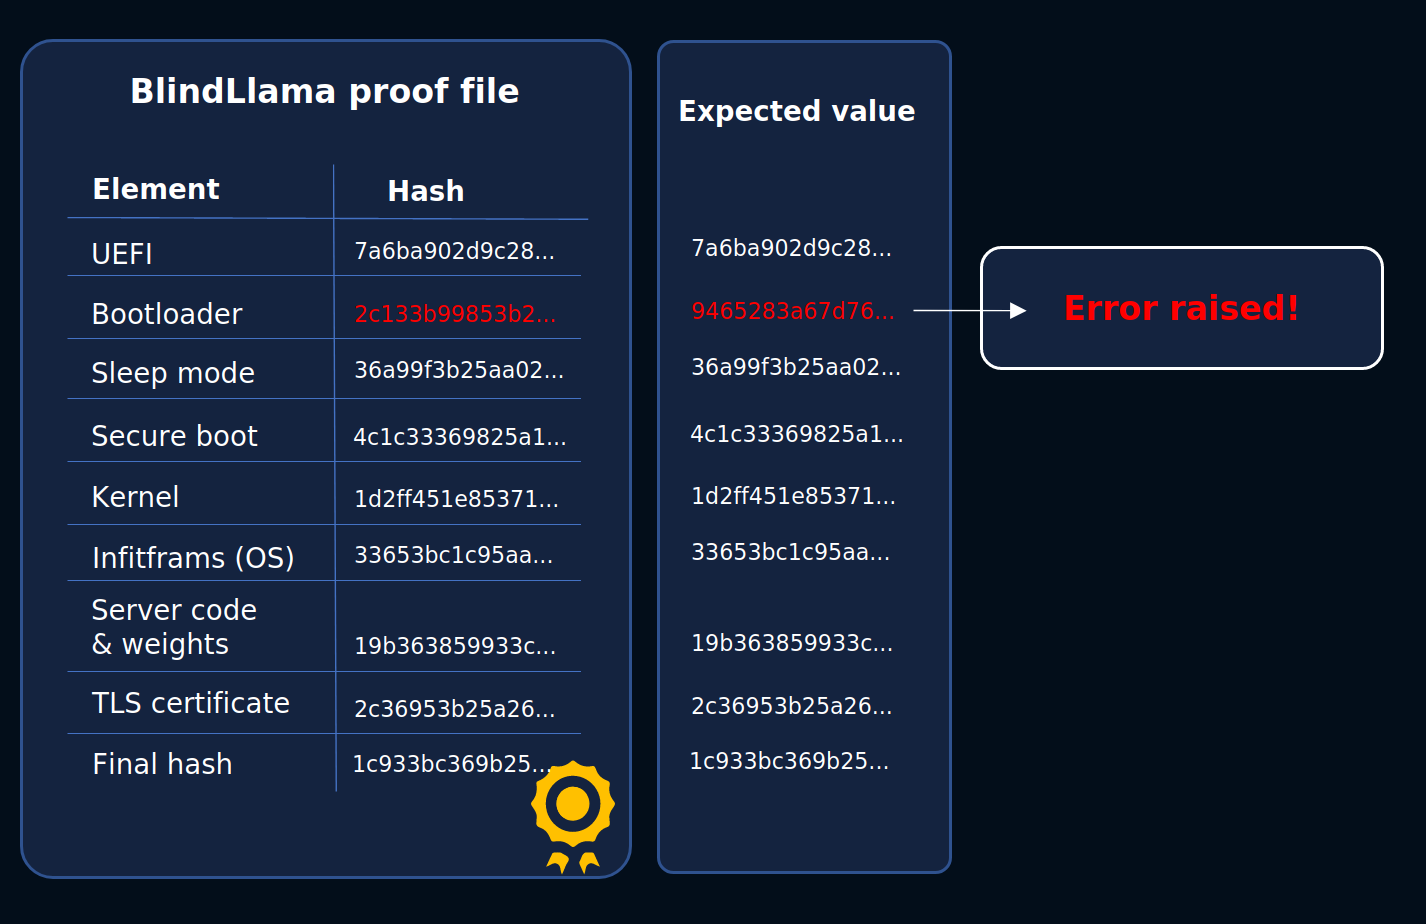
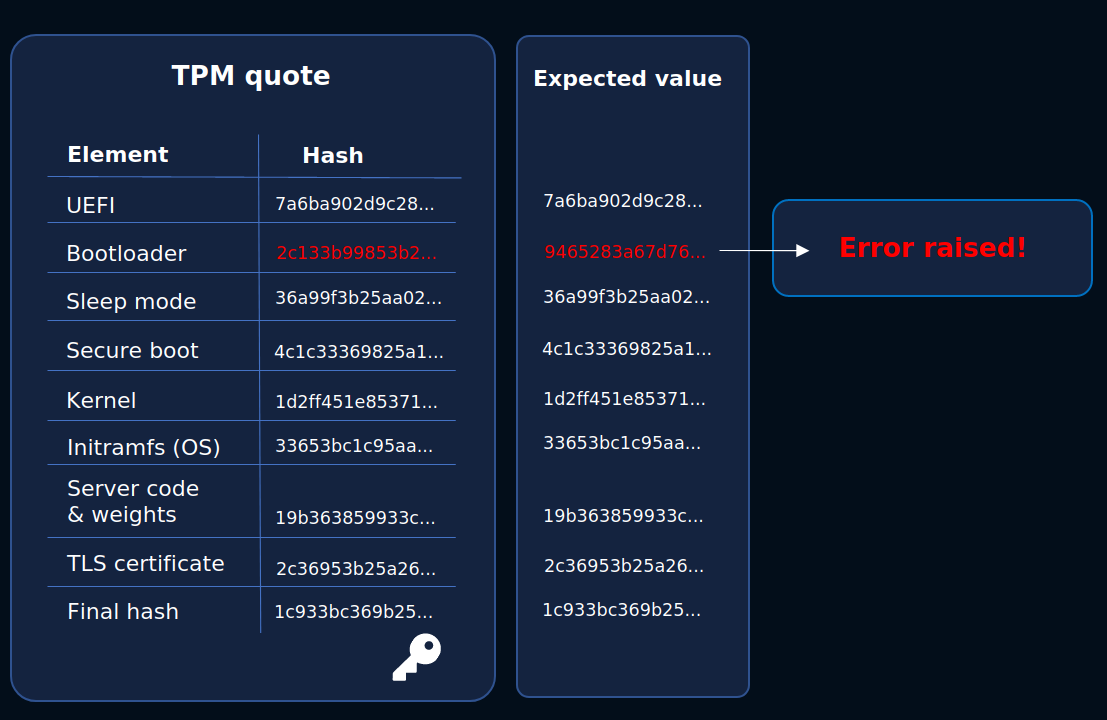
docs: update docs based on whitepaper improvements

diff --git a/docs/stylesheets/extra.css b/docs/stylesheets/extra.css
@@ -136,6 +136,8 @@
 @media screen and (min-width: 350px) {
 img[alt=PCR-alloc-dark] { max-width: 350px;}
 img[alt=PCR-alloc-light] { max-width: 350px;}
+img[alt=tpm-quote-dark] { max-width: 350px;}
+img[alt=tpm-quote-light] { max-width: 350px;}
 img[alt=PCR-alloc-extra-dark] { max-width: 350px;}
 img[alt=PCR-alloc-extra-light] { max-width: 350px;}
 }
@@ -146,6 +148,7 @@ img[alt=trust-model-dark] { max-width: 600px;}
 img[alt=tcb-light] { max-width: 600px;}
 img[alt=tcb-dark] { max-width: 600px}
 img[alt=proof-light] { max-width: 600px;}
+img[alt=proof-dark] { max-width: 600px;}
 img[alt=certificates-light] { max-width: 600px;}
 img[alt=certificates-dark] { max-width: 600px;}
 img[alt=matching-light] { max-width: 600px;}
@@ -153,7 +156,6 @@ img[alt=matching-dark] { max-width: 600px;}
 }
 
 @media screen and (min-width: 650px) {
-img[alt=proof-dark] { max-width: 650px;}
 img[alt=hash-check-light] { max-width: 650px;}
 img[alt=hash-check-dark] { max-width: 650px;}
 img[alt=arch-light] { max-width: 650px;}

diff --git a/docs/docs/concepts/TPMs.md b/docs/docs/concepts/TPMs.md
@@ -43,6 +43,9 @@ The BlindLlama server then additionally stores hashes of the following elements 
 
 The BlindLlama server then requests a signed quote from the TPM which contains these PCR values and is signed by the TPM's Attestation Key (AK). The AK never leaves the TPM and therefore cannot be accessed, even by our admins.
 
+![tpm-quote-dark](../../assets/tpm-quote-dark.png#only-dark)
+![tpm-quote-light](../../assets/tpm-quote-light.png#only-light)
+
 #### Creating proof file
 
 The BlindLlama server includes this TPM's quote in a cryptographic proof file, which also contains a certificate chain used to verify the TPM quote's signature and the server's TLS certificate.
@@ -50,9 +53,7 @@ The BlindLlama server includes this TPM's quote in a cryptographic proof file, w
 ![proof-dark](../../assets/proof-dark.png#only-dark)
 ![proof-light](../../assets/proof-light.png#only-light)
 
-### Client side
-
-#### Verifying the proof file
+### Client side: verifying the proof file
 
 When an end user queries our BlindLlama API, before a secure connection can be established with the server, the client will receive and verify the server's **cryptographic proof file**, which contains **the TPM's quote** signed by the private AK. 
 
@@ -60,35 +61,42 @@ The client also receives a [cert chain](https://www.ibm.com/docs/en/ztpf/1.1.0.1
 
 Verification is done in done in three steps:
 
-**Step one:** The client validates the AK using the certificate chain. This certificate chain is issued by the Cloud provider* and is evidence that the key really is the Attestation Key of one of their TPMs.
+#### 1. Verifying the Attestation Key
+
+The client validates the AK using the certificate chain. This certificate chain is issued by the Cloud provider and is evidence that the key really is the Attestation Key of one of their TPMs.
 
 ![chain-dark](../../assets/chain-dark.png#only-dark)
 ![chain-light](../../assets/chain-light.png#only-light)
 
-**Step two:** Now we have validated the AK, we use the public part of this key to check the TPM's quote's signature. This allows us to have confidence in the authenticity of the TPM quote contained within our proof file.
+!!! warning 
+    There is currently no signed endorsement from Azure for the TPM’s attestation key. We are currently working on resolving this issue. 
 
-**Step three:**  Once we have established that the TPM quote is authentic, the client recreates the quote's hash values and verifies that they match the values in quote. If any of these hashes do not match with the quote's corresponding hash, an error will be raised!
+#### 2. Verifying the TPM quote
+
+Now we have validated the AK, we use the public part of this key to check the TPM's quote's signature. This allows us to have confidence in the authenticity of the TPM quote contained within our proof file.
+
+#### 3. Verifying the hashed values
+
+Once we have established that the TPM quote is authentic, the client recreates the quote's hash values and verifies that they match the values in quote. If any of these hashes do not match with the quote's corresponding hash, an error will be raised!
 
 ![hash-check-dark](../../assets/hash-check-dark.png#only-dark)
 ![hash-check-light](../../assets/hash-check-light.png#only-light)
 
-* ⚠ Limitation: There is currently no signed endorsement from Azure regarding the TPM’s attestation key. We are currently working to resolve this issue. 
-
 ??? example "Understanding PCR measurements"
 
-  PCR values can either be fixed, and will never change, or changeable.
+    PCR values can either be fixed, and will never change, or changeable.
 
-  For fixed PCR values, every detail of what gets measured is known in advance. Therefore, it's possible to pre-compute the expected value. 
+    For fixed PCR values, every detail of what gets measured is known in advance. Therefore, it's possible to pre-compute the expected value. 
 
-  Such PCR registers typically measure components that don't change across boots, such as firmware. 
+    Such PCR registers typically measure components that don't change across boots, such as firmware. 
 
-  To check them, we compare their values against the expected measurement (called a golden measurement). 
+    To check them, we compare their values against the expected measurement (called a golden measurement). 
 
-  This is straightforward but rigid. The measured component can't be changed without also changing the golden measurement. So, if the PCR value matches the golden measurement, it means that the component is as expected and has not been tampered with. 
+    This is straightforward but rigid. The measured component can't be changed without also changing the golden measurement. So, if the PCR value matches the golden measurement, it means that the component is as expected and has not been tampered with. 
 
-  On the other hand, some PCRs relate to data that can change, such as configuration files. 
+    On the other hand, some PCRs relate to data that can change, such as configuration files. 
 
-  These registers are checked with the help of an event log, which records all events relevant to a particular PCR which can then be used by the verifier to recreate the same hash value. This approach is used for the application layer of BlindLlama.
+    These registers are checked with the help of an event log, which records all events relevant to a particular PCR which can then be used by the verifier to recreate the same hash value. This approach is used for the application layer of BlindLlama.
 
 
 <div style="text-align: left;">

diff --git a/docs/docs/concepts/attested-tls.md b/docs/docs/concepts/attested-tls.md
@@ -23,8 +23,8 @@ Let's take a look at how we attested TLS works in BlindLlama step-by-step:
 4. The TLS certificate is hashed and included in a cryptographic proof file, which is then shared with clients when they connect with the server for verification.
 
 
-![tls-hash-light](../../assets/tls-hash-light.png#only-light)
-![tls-hash-dark](../../assets/tls-hash-dark.png#only-dark)
+![tls-hash-light](../../assets/TLS-hash-light.png#only-light)
+![tls-hash-dark](../../assets/TLS-hash-dark.png#only-dark)
 
 
 ### Client side
